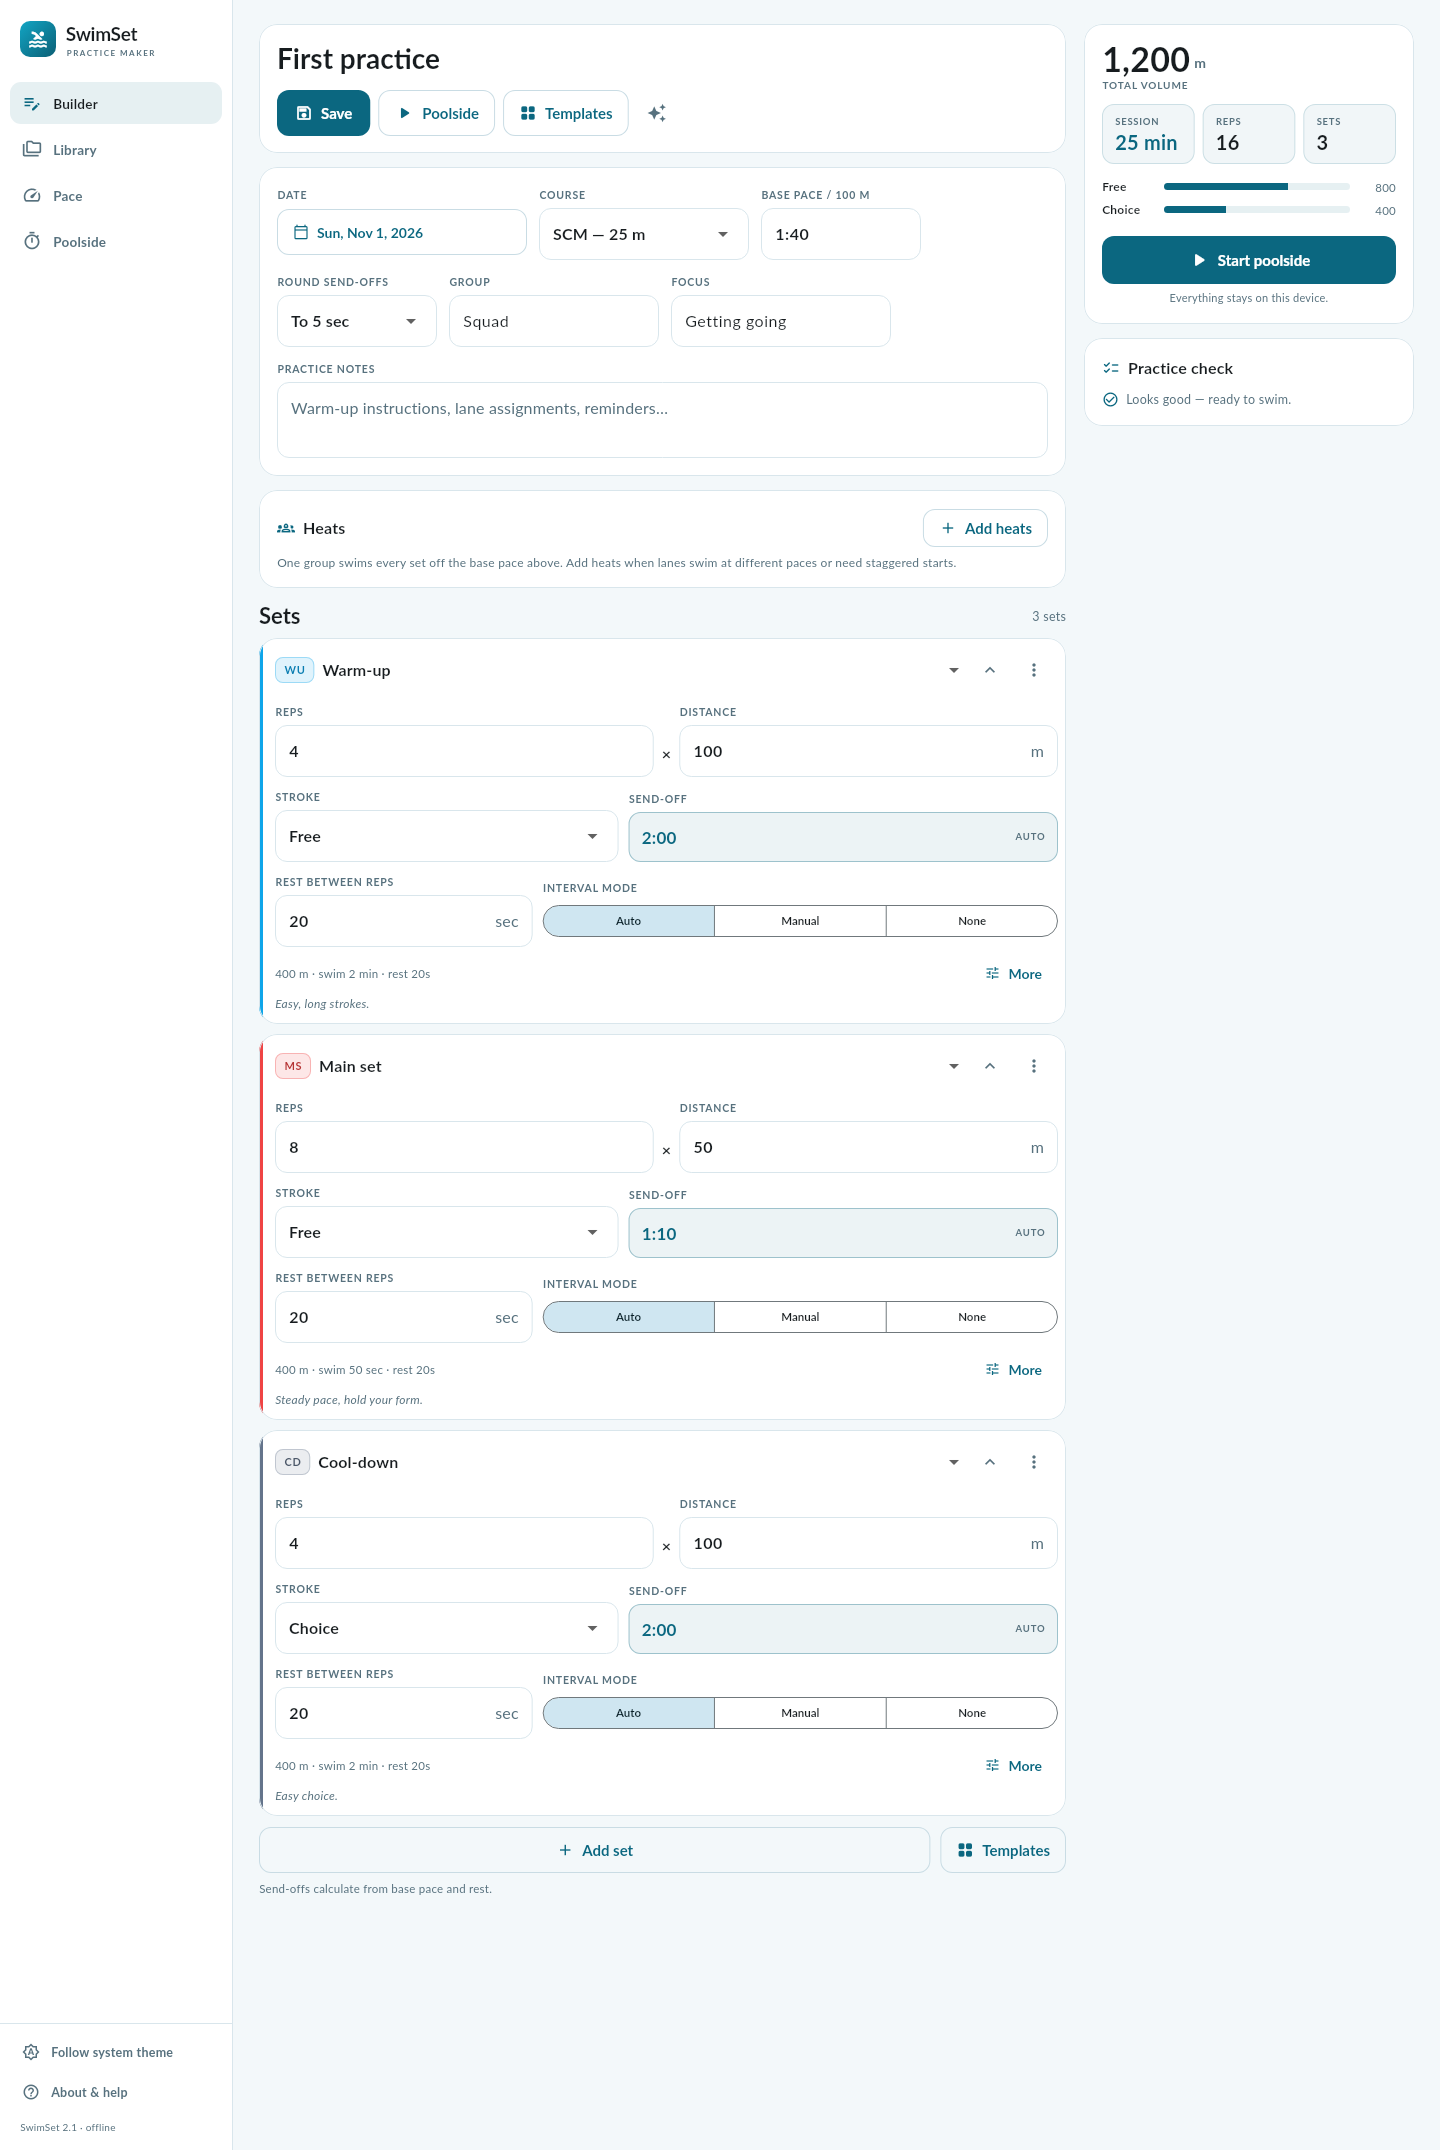
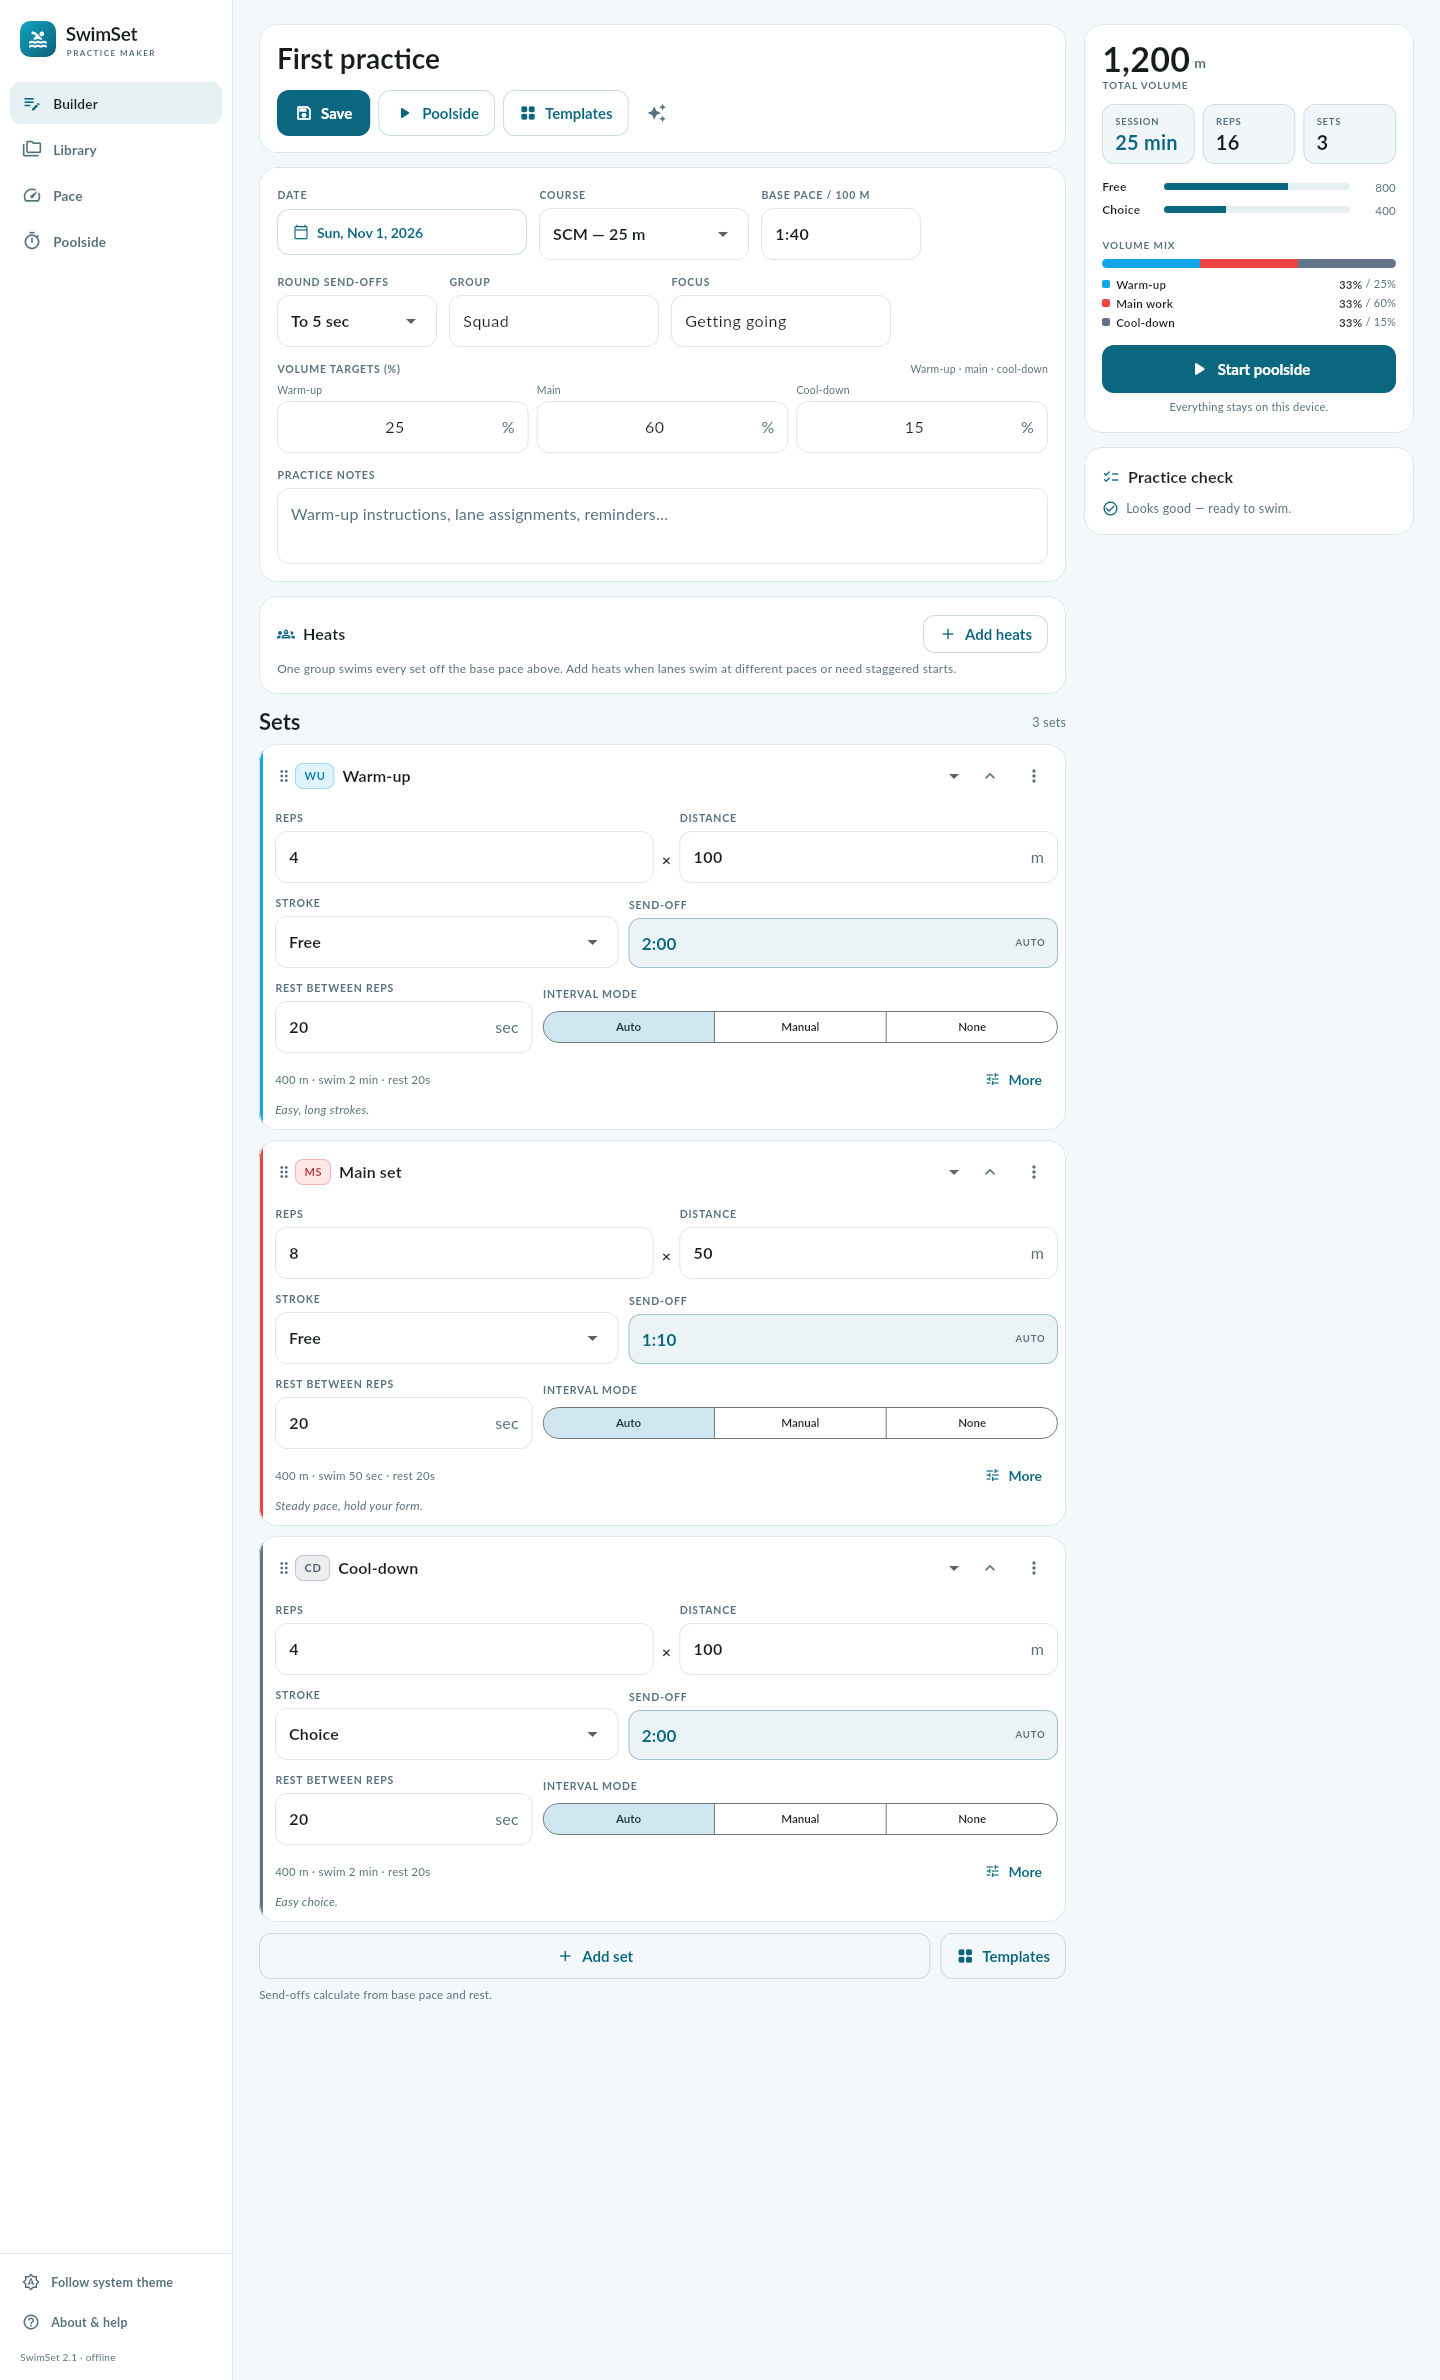
Release 2.2.0 with lanes, reordering, volume mix and notification controls [ship]

diff --git a/native/lib/src/ui/shell.dart b/native/lib/src/ui/shell.dart
@@ -193,7 +193,7 @@ class _Sidebar extends StatelessWidget {
             Padding(
               padding: const EdgeInsets.fromLTRB(20, 0, 20, 16),
               child: Text(
-                'SwimSet 2.1 · offline',
+                'SwimSet 2.2 · offline',
                 style: TextStyle(fontSize: 10, color: SwimTheme.muted(context)),
               ),
             ),
@@ -289,7 +289,7 @@ String _themeLabel(ThemeMode mode) => switch (mode) {
 Future<void> showHelp(BuildContext context) => showDialog<void>(
       context: context,
       builder: (dialogContext) => AlertDialog(
-        title: const Text('SwimSet 2.1'),
+        title: const Text('SwimSet 2.2'),
         content: SingleChildScrollView(
           child: Column(
             crossAxisAlignment: CrossAxisAlignment.start,

diff --git a/README.md b/README.md
@@ -27,7 +27,7 @@ network calls.
 | --- | --- | --- |
 | ![Heats with per-heat paces](docs/screenshots/builder-heats.png) | ![Poolside heat strip and staggered starts](docs/screenshots/poolside-heats.png) | ![Mobile heats](docs/screenshots/mobile-heats.png) |
 
-| Set block, start times and a per-heat send-off |
+| Set block, start times, lanes and a per-heat send-off |
 | --- |
 | ![A repeat block with a manual Heat 1 send-off](docs/screenshots/heat-overrides.png) |
 
@@ -92,11 +92,11 @@ Screenshots are rendered from the real Flutter widget tree by the CI screenshot 
 
 ### Debian, and Chromebooks with the Linux container
 
-Download `swimset_2.1.0_amd64.deb` from the [latest release][release] (or from
+Download `swimset_2.2.0_amd64.deb` from the [latest release][release] (or from
 `ci-artifacts/` in this repository) and install it:
 
 ```bash
-sudo apt install ./swimset_2.1.0_amd64.deb
+sudo apt install ./swimset_2.2.0_amd64.deb
 ```
 
 Then launch **SwimSet** from the applications menu, or run `swimset`. The package
@@ -110,11 +110,11 @@ Chromebooks that run Android apps you can install the APK instead.
 
 ### Android and ChromeOS (Android apps)
 
-Download `swimset-2.1.0-universal.apk` from the [latest release][release] and open
+Download `swimset-2.2.0-universal.apk` from the [latest release][release] and open
 it on the device (allow installing from your file manager when prompted), or use adb:
 
 ```bash
-adb install swimset-2.1.0-universal.apk
+adb install swimset-2.2.0-universal.apk
 ```
 
 - Android 6.0+ (`minSdk 23`); the universal APK contains `arm64-v8a`,
@@ -133,7 +133,7 @@ libgstreamer-plugins-base1.0-dev`.
 
 ```bash
 make apk         # native/build/app/outputs/flutter-apk/app-release.apk
-make deb         # native/build/deb/swimset_2.1.0_amd64.deb
+make deb         # native/build/deb/swimset_2.2.0_amd64.deb
 make test-native # 24 Flutter unit/widget tests
 ```
 
@@ -147,8 +147,8 @@ The supported builder is CI. `.github/workflows/native.yml` runs on every push:
    the commit message contains `[ship]` — refresh the GitHub release and commit the
    binaries, logs and screenshots to `ci-artifacts/`.
 
-Every run's `swimset-native` artifact contains `swimset-2.1.0-universal.apk` and
-`swimset_2.1.0_amd64.deb`, so no build ever ends without downloadable binaries.
+Every run's `swimset-native` artifact contains `swimset-2.2.0-universal.apk` and
+`swimset_2.2.0_amd64.deb`, so no build ever ends without downloadable binaries.
 
 [release]: https://github.com/mob5824m-wq/SwimSet/releases/latest
 
